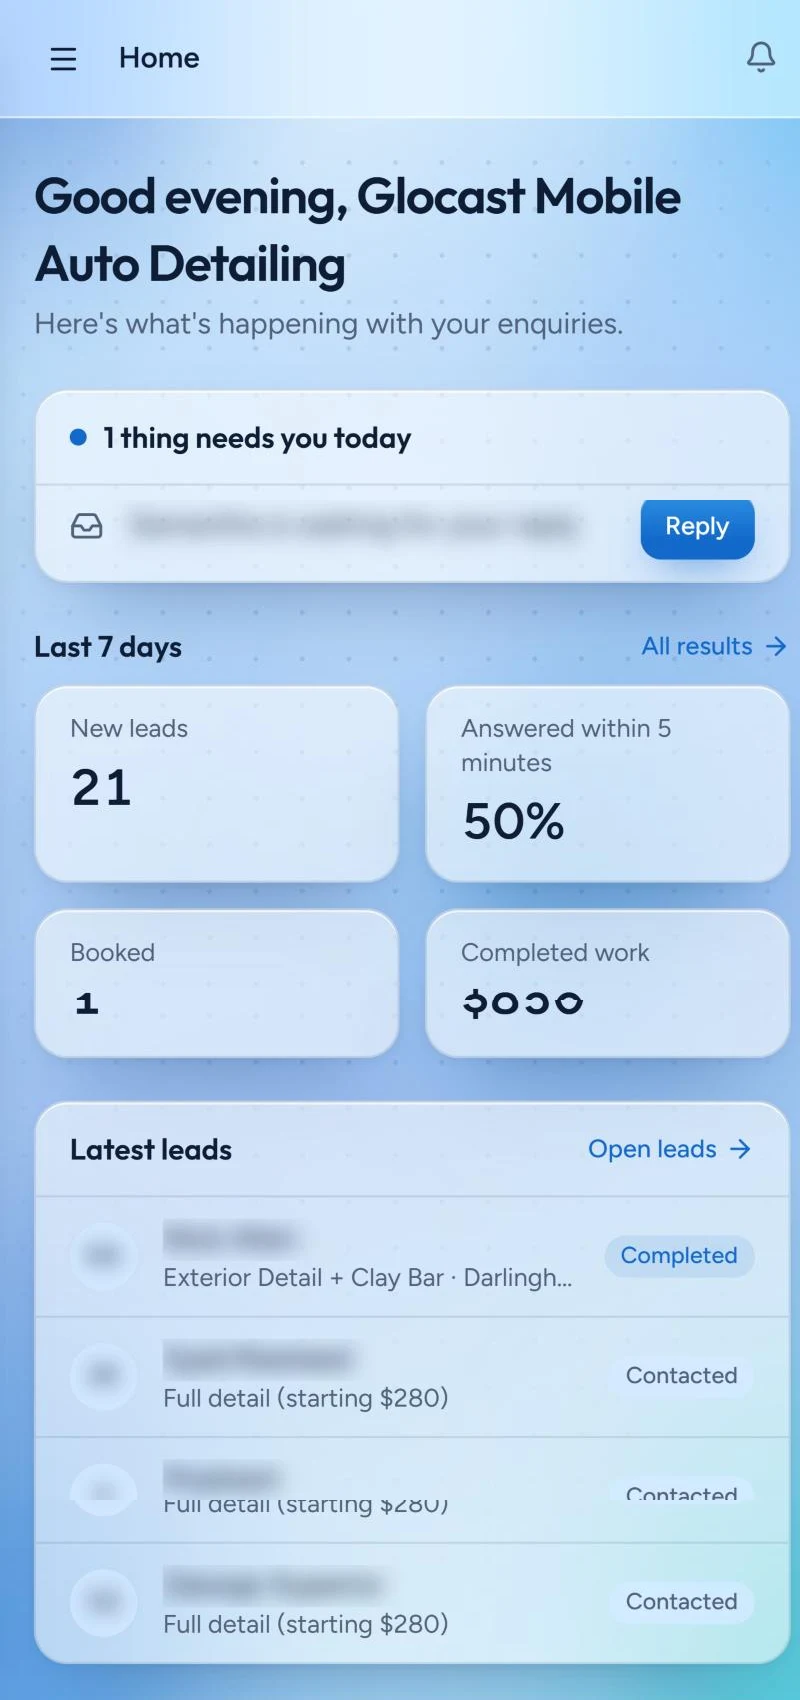
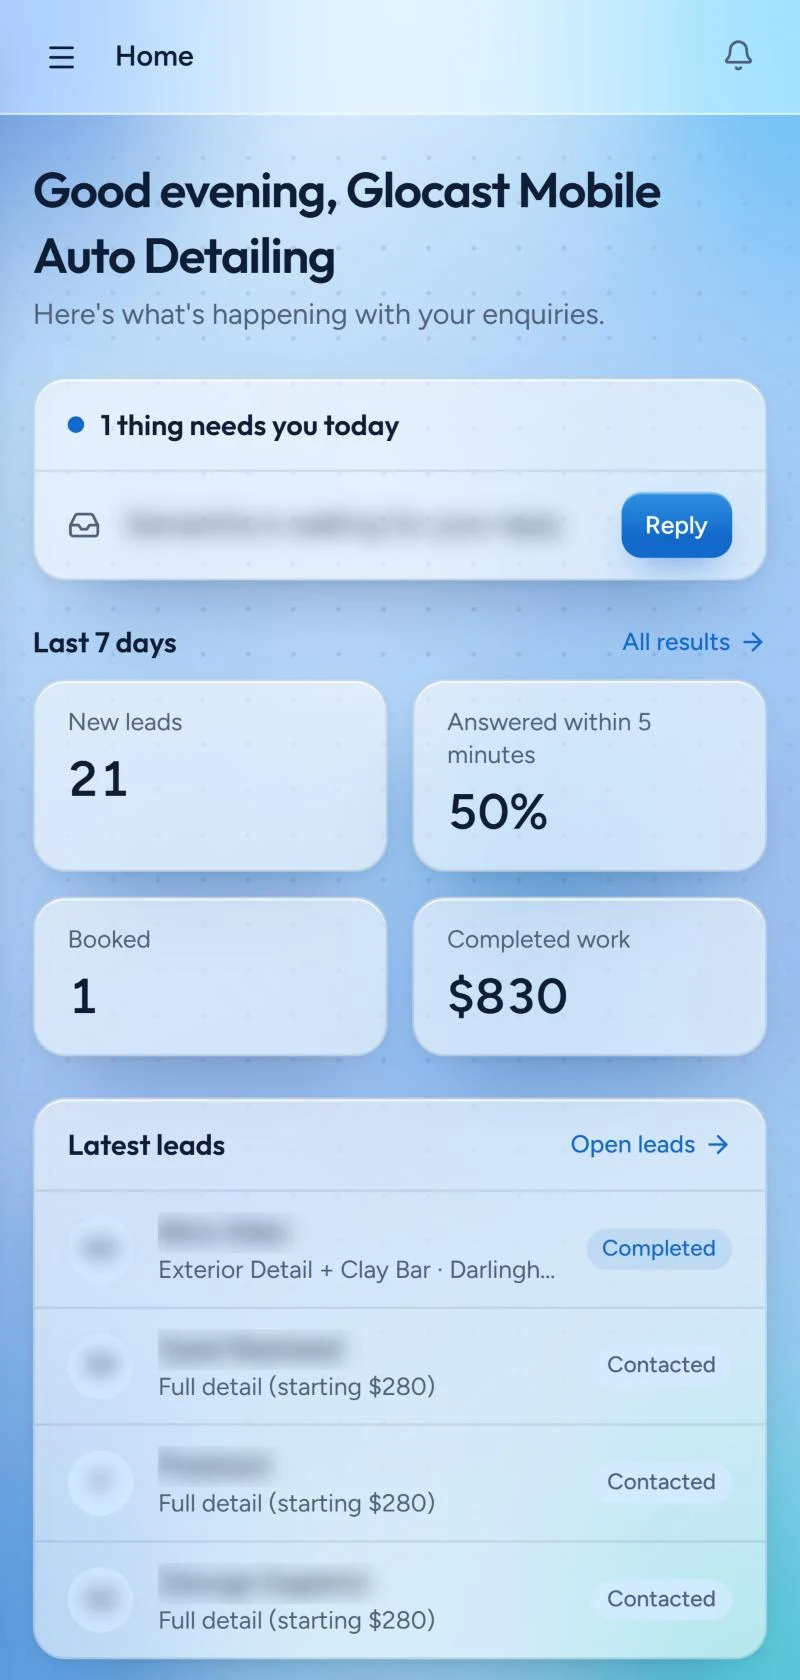
Landing: phone screenshots without a device frame; recapture phone Home
Phone shots and the quote page preview are now just the screen with rounded
corners and a soft shadow. The phone Home image is recaptured with
overlapping tiles so no seam cuts through the stats.

diff --git a/src/components/home/HomeLanding.tsx b/src/components/home/HomeLanding.tsx
@@ -179,7 +179,7 @@ function Shot({
   );
 }
 
-/** A real phone-size screenshot (390px wide, captured at 2x) in a simple phone frame. */
+/** A real phone-size screenshot (390px wide, captured at 2x) with rounded corners, no device frame. */
 function PhoneShot({
   src,
   height,
@@ -195,9 +195,14 @@ function PhoneShot({
   screenClassName?: string;
 }) {
   return (
-    <div className={cn("mx-auto w-full max-w-[260px] rounded-[2.4rem] border border-white/80 bg-white/50 p-2 shadow-[inset_0_1px_0_white,0_40px_80px_-30px_oklch(0.25_0.11_258/0.6)] backdrop-blur-xl", className)}>
-      <div className={cn("relative overflow-hidden rounded-[1.9rem] border border-foreground/10 bg-white", screenClassName)}>
-        <span className="absolute left-1/2 top-2 z-10 h-1.5 w-14 -translate-x-1/2 rounded-full bg-foreground/15" aria-hidden />
+    <div
+      className={cn(
+        "mx-auto w-full max-w-[250px] overflow-hidden rounded-[1.75rem] border border-white/70 bg-white shadow-[0_30px_60px_-28px_oklch(0.25_0.11_258/0.55)]",
+        className,
+        screenClassName,
+      )}
+    >
+      <div>
         <img src={src} width={800} height={height} loading="lazy" alt={alt} className="block h-auto w-full" />
       </div>
     </div>
@@ -419,7 +424,7 @@ export function HomeLanding() {
               </p>
               <p className="mt-4 leading-7 text-muted-foreground">Out on a job? BookedSecure works on your phone, so you can see who's waiting and reply between jobs.</p>
             </div>
-            <PhoneShot className="md:row-span-2 lg:order-last lg:row-span-1" src="/landing/phone-home.webp" height={1700} alt="BookedSecure Home on a phone: what needs you today, the last 7 days and the latest leads, names blurred" />
+            <PhoneShot className="md:row-span-2 lg:order-last lg:row-span-1" src="/landing/phone-home.webp" height={1680} alt="BookedSecure Home on a phone: what needs you today, the last 7 days and the latest leads, names blurred" />
             <ul className="grid gap-2.5 sm:grid-cols-2">
               {AUDIENCE.map((item) => (
                 <li key={item} className="flex items-center gap-3 rounded-xl border border-white/80 bg-white/60 px-4 py-3.5 text-sm font-medium shadow-[inset_0_1px_0_white]">

diff --git a/src/components/home/QuotePagePreview.tsx b/src/components/home/QuotePagePreview.tsx
@@ -56,10 +56,9 @@ export function QuotePagePreview({ className }: { className?: string }) {
         ))}
       </div>
 
-      <div className="mx-auto w-full max-w-[260px] rounded-[2.4rem] border border-white/80 bg-white/50 p-2 shadow-[inset_0_1px_0_white,0_40px_80px_-30px_oklch(0.25_0.11_258/0.6)] backdrop-blur-xl">
-        <div className="relative flex h-[25.5rem] flex-col overflow-hidden rounded-[1.9rem] border border-foreground/10 bg-gradient-to-b from-white to-[oklch(0.97_0.02_250)]" aria-live="polite">
-          <span className="absolute left-1/2 top-2 z-10 h-1.5 w-14 -translate-x-1/2 rounded-full bg-foreground/15" aria-hidden />
-          <div className="flex items-center gap-2 border-b border-foreground/5 px-3.5 pb-2.5 pt-6">
+      <div className="mx-auto w-full max-w-[250px]">
+        <div className="relative flex h-[24rem] flex-col overflow-hidden rounded-[1.75rem] border border-white/70 bg-gradient-to-b from-white to-[oklch(0.97_0.02_250)] shadow-[0_30px_60px_-28px_oklch(0.25_0.11_258/0.55)]" aria-live="polite">
+          <div className="flex items-center gap-2 border-b border-foreground/5 px-3.5 py-3">
             <span className="grid size-7 place-items-center rounded-lg bg-gradient-to-br from-[var(--primary-bright)] to-[var(--primary)] text-white">
               <Sparkles className="size-3.5" />
             </span>
